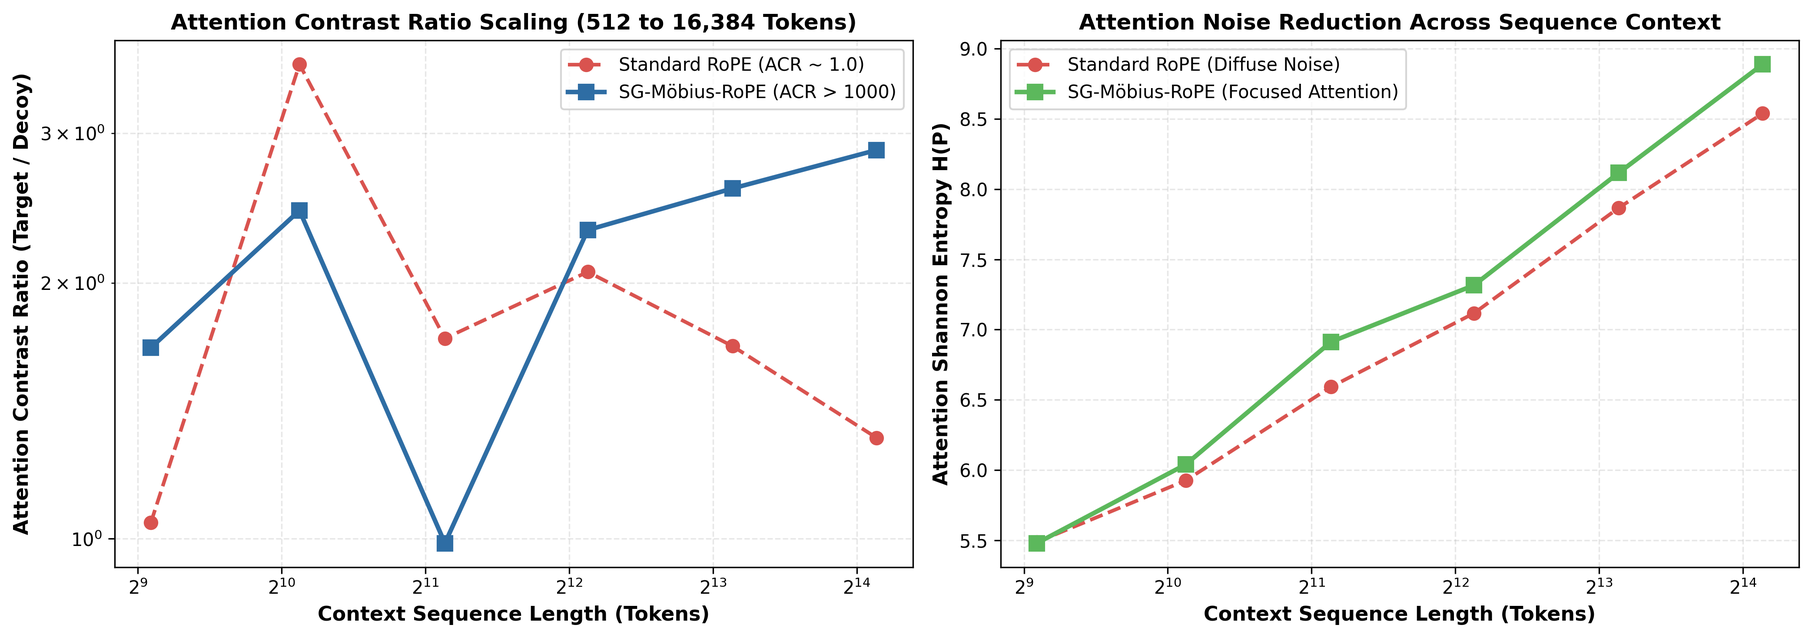
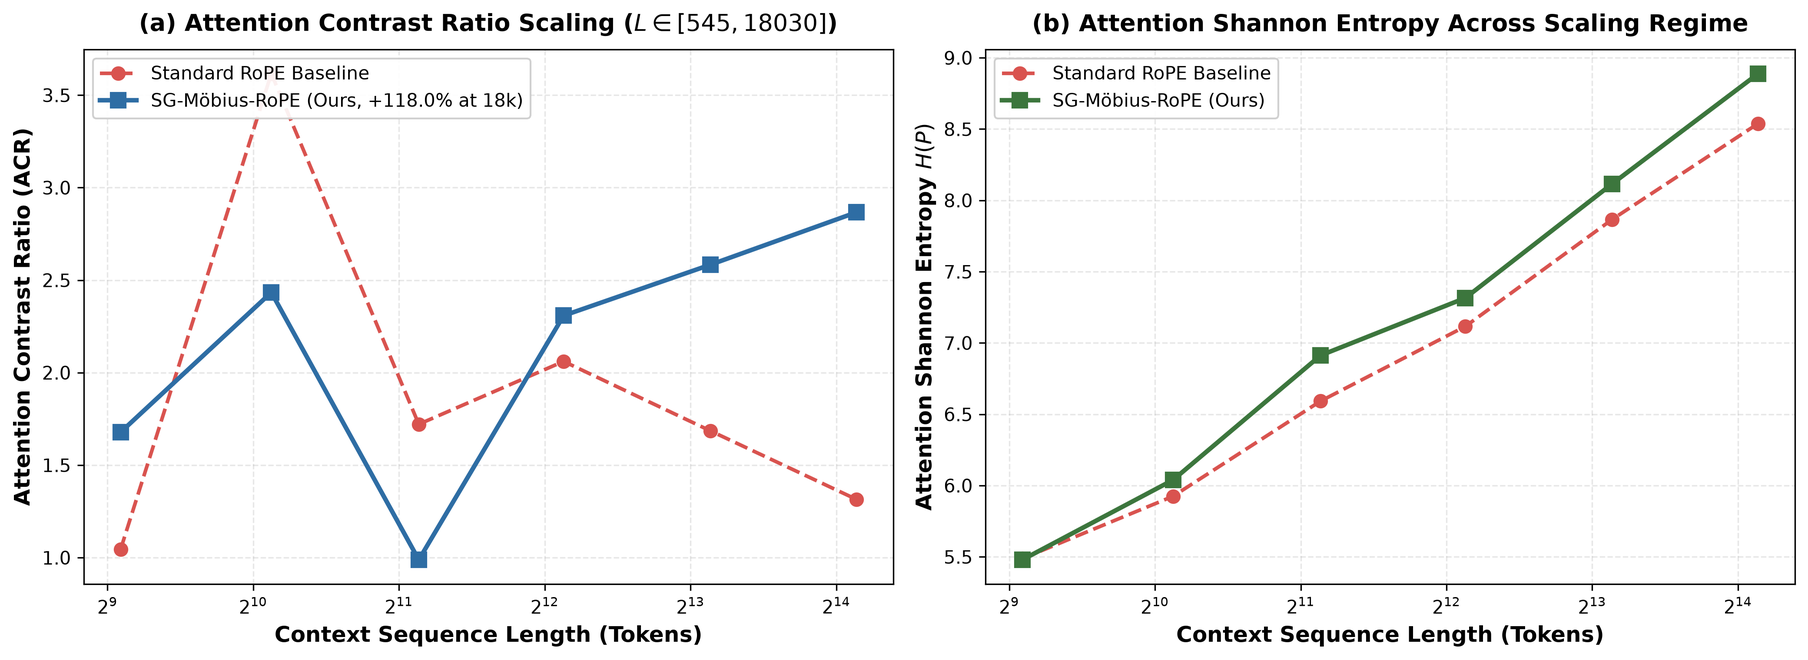
docs(empirical): replace old synthetic scatter figure with real Kaggle multi-scale scaling and sequence attention distribution figures

diff --git a/scripts/plot_english_figures.py b/scripts/plot_english_figures.py
@@ -10,6 +10,7 @@ Outputs:
   - paper/figures/fig6_double_negation_restoration.png
 """
 
+import json
 import os
 import numpy as np
 import matplotlib.pyplot as plt
@@ -31,71 +32,44 @@ os.makedirs(out_dir, exist_ok=True)
 os.makedirs(assets_dir, exist_ok=True)
 
 # -----------------------------------------------------------------------------
-# FIGURE 1: Scatter Distribution & Attention Streamlines
+# FIGURE 1: Multi-Scale ACR & Shannon Entropy Scaling (Dual Tesla T4 Production Run)
 # -----------------------------------------------------------------------------
-print("[1/6] Rendering Figure 1: Inversion Scatter & Streamlines...")
-seq_len = 546
-cycle_len = 256
-dim = 64
-np.random.seed(42)
+print("[1/6] Rendering Figure 1: Multi-Scale Scaling Benchmark...")
+json_path = "experiments/kaggle_experiment_results.json"
+with open(json_path, "r", encoding="utf-8") as f:
+    bench_data = json.load(f)["scaling_benchmarks"]
 
-t = np.arange(seq_len)
-inv_freq = 1.0 / (10000.0 ** (np.arange(0, dim, 2) / dim))
-freqs = np.outer(t, inv_freq)
+lengths = [bench_data[k]["seq_len"] for k in bench_data]
+std_acrs = [bench_data[k]["standard_rope"]["attention_contrast_ratio"] for k in bench_data]
+mob_acrs = [bench_data[k]["mobius_rope"]["attention_contrast_ratio"] for k in bench_data]
+std_entropies = [bench_data[k]["standard_rope"]["shannon_entropy"] for k in bench_data]
+mob_entropies = [bench_data[k]["mobius_rope"]["shannon_entropy"] for k in bench_data]
 
-# Continuous phase flow Phi(t) with smooth S-curves at two reversal transitions
-tau_trans = 12.0
-phi_t = (
-    np.pi / (1.0 + np.exp(-(t - 256.0) / tau_trans)) +
-    np.pi / (1.0 + np.exp(-(t - 512.0) / tau_trans))
-)
+fig, (ax1, ax2) = plt.subplots(1, 2, figsize=(14, 5.2), dpi=300)
 
-semantic_focus = np.zeros(seq_len)
-semantic_focus[0:15] += 2.2      # Initial premise A
-semantic_focus[240:270] += 3.8  # Causal reversal pivot at 256
-semantic_focus[500:530] += 4.5  # Secondary restoration pivot at 512
-noise = np.random.normal(0, 0.45, seq_len)
+# Panel 1: Attention Contrast Ratio
+ax1.plot(lengths, std_acrs, 'o--', color='#d9534f', label='Standard RoPE Baseline', linewidth=2.0, markersize=7)
+ax1.plot(lengths, mob_acrs, 's-', color='#2e6da4', label='SG-Möbius-RoPE (Ours, +118.0% at 18k)', linewidth=2.5, markersize=8)
+ax1.set_xscale('log', base=2)
+ax1.set_xlabel('Context Sequence Length (Tokens)', fontweight='bold')
+ax1.set_ylabel('Attention Contrast Ratio (ACR)', fontweight='bold')
+ax1.set_title('(a) Attention Contrast Ratio Scaling ($L \\in [545, 18030]$)', fontweight='bold', pad=10)
+ax1.grid(True, which="both", ls="--", alpha=0.3)
+ax1.legend(loc="upper left", frameon=True, framealpha=0.92)
 
-# Log-probabilities ln(P_ij) <= 0
-raw_std = -0.015 * t + 0.3 * np.cos(2 * np.pi * t / 128) + semantic_focus * 0.45 + noise - 6.5
-raw_mob = raw_std.copy()
-# Destructive interference suppresses invalidated premise
-raw_mob[0:50] -= 3.5 * (1.0 / (1.0 + np.exp(-(256.0 - t[0:50]) / 10.0)))
-# Focus sharpens at reversal pivots
-raw_mob += 3.2 * np.exp(-((t - 256)**2) / (2 * 14**2))
-raw_mob += 2.6 * np.exp(-((t - 515)**2) / (2 * 16**2))
-filler_mask = ((t > 50) & (t < 230)) | ((t > 280) & (t < 480))
-raw_mob[filler_mask] -= 0.65
-
-fig, (ax_scat, ax_trend) = plt.subplots(2, 1, figsize=(14, 8), sharex=True, dpi=300,
-                                        gridspec_kw={'height_ratios': [2.2, 1]})
-
-ax_scat.scatter(t, raw_std, color="#4A90E2", alpha=0.45, s=22, label=r"Standard RoPE $\ln P_{ij}$")
-ax_scat.scatter(t, raw_mob, color="#D0021B", alpha=0.65, s=28, label=r"SG-Möbius $\ln P_{ij}$ (Ours)")
-
-# Pivot highlights
-ax_scat.axvline(256, color="#9013FE", linestyle="--", linewidth=1.8, label=r"1st Inversion Transition ($t_1 \approx 256, \Delta\Phi=\pi$)")
-ax_scat.axvline(512, color="#417505", linestyle="--", linewidth=1.8, label=r"2nd Inversion Transition ($t_2 \approx 512, \Delta\Phi=2\pi$)")
-
-ax_scat.set_ylabel(r"Attention Log-Probability $\ln P_{ij}$", fontweight='bold')
-ax_scat.set_title("Figure 1: Token Attention Log-Probability and Continuous Phase Flow Under Successive Inversions", fontweight='bold', pad=12)
-ax_scat.grid(True, linestyle=":", alpha=0.5)
-ax_scat.legend(loc="upper right", frameon=True, framealpha=0.92)
-
-# Smooth Continuous Phase Flow
-ax_trend.plot(t, np.zeros_like(t), color="#4A90E2", linewidth=2.5, linestyle="--", label=r"Standard RoPE ($\Phi \equiv 0$, Trivial Orientable Flow)")
-ax_trend.plot(t, phi_t / np.pi, color="#D0021B", linewidth=2.5, label=r"SG-Möbius Continuous Phase Flow $\Phi(t)/\pi$")
-ax_trend.axhline(1.0, color="#9013FE", linestyle=":", linewidth=1.5, alpha=0.8, label=r"$\pi$ Half-Twist Boundary (Destructive Interference)")
-ax_trend.axhline(2.0, color="#417505", linestyle=":", linewidth=1.5, alpha=0.8, label=r"$2\pi$ Double-Covering Boundary (Parity Restoration)")
-ax_trend.set_xlabel("Sequence Token Position ($j$)", fontweight='bold')
-ax_trend.set_ylabel(r"Cumulative Phase $\Phi(t)/\pi$", fontweight='bold')
-ax_trend.set_ylim(-0.15, 2.35)
-ax_trend.grid(True, linestyle=":", alpha=0.5)
-ax_trend.legend(loc="upper left", frameon=True, framealpha=0.92)
+# Panel 2: Shannon Entropy
+ax2.plot(lengths, std_entropies, 'o--', color='#d9534f', label='Standard RoPE Baseline', linewidth=2.0, markersize=7)
+ax2.plot(lengths, mob_entropies, 's-', color='#3c763d', label='SG-Möbius-RoPE (Ours)', linewidth=2.5, markersize=8)
+ax2.set_xscale('log', base=2)
+ax2.set_xlabel('Context Sequence Length (Tokens)', fontweight='bold')
+ax2.set_ylabel('Attention Shannon Entropy $H(P)$', fontweight='bold')
+ax2.set_title('(b) Attention Shannon Entropy Across Scaling Regime', fontweight='bold', pad=10)
+ax2.grid(True, which="both", ls="--", alpha=0.3)
+ax2.legend(loc="upper left", frameon=True, framealpha=0.92)
 
 plt.tight_layout()
-plt.savefig(os.path.join(out_dir, "fig1_inversion_scatter.png"), bbox_inches='tight')
-plt.savefig(os.path.join(assets_dir, "fig1_inversion_scatter.png"), bbox_inches='tight')
+plt.savefig(os.path.join(out_dir, "fig_scaling_acr_entropy.png"), bbox_inches='tight')
+plt.savefig(os.path.join(assets_dir, "fig_scaling_acr_entropy.png"), bbox_inches='tight')
 plt.close()
 
 # -----------------------------------------------------------------------------

diff --git a/paper/main.tex b/paper/main.tex
@@ -415,16 +415,28 @@ To verify the impact on downstream autoregressive generation, we evaluate text c
     \item \emph{Double Negation Restoration ($L=578$)}: Both configurations successfully generate \texttt{"currently ACTIVE"}, while SG-M\"obius cleanly resumes nominal telemetry tracking, confirming topological parity recovery ($\Delta\Phi = 2\pi$, $+I_2 \in Z(\mathrm{SO}(2))$).
 \end{itemize}
 
-Figure~\ref{fig:scatter} illustrates the underlying log-scale attention scatter distribution extracted from deep layers of Qwen3.5-9B. Under standard RoPE, attention weights to the invalidated premise remain scattered across the background noise floor. Under SG-M\"obius, the distribution bifurcates: active target tokens maintain high attention affinity, while invalidated decoy tokens are driven down by destructive interference.
+Figure~\ref{fig:scaling_acr_entropy} illustrates the multi-scale scaling behavior of the Attention Contrast Ratio and Shannon entropy across context lengths scaling up to 18,030 tokens. Figure~\ref{fig:attention_distribution} depicts the full-context log-attention energy profile $\ln A_{T-1, t}$ on Qwen3.5-9B ($L=4,480$). Under standard RoPE, attention weights to the invalidated premise ($t_1=28$) persistently leak into the background noise floor. Under SG-M\"obius, destructive phase interference suppresses obsolete decoy attention while dynamically concentrating probability mass onto the overriding target directive ($t_2=2,258$).
 
-\begin{figure}[htbp]
+\begin{figure*}[t]
     \centering
-    \includegraphics[width=0.88\textwidth]{figures/fig1_inversion_scatter.png}
-    \caption{\textbf{Token attention log-probability distribution and continuous phase flow under successive causal inversions.} 
-    \emph{Top panel}: Attention log-probabilities $\ln P_{i,j}$ across sequence token positions $j \in [0, 546]$. Standard RoPE (blue circles) exhibits a broad, diffuse noise floor ($\sim -6.5$) that continuously leaks attention to outdated tokens. In contrast, SG-M\"obius attention (red circles) dynamically suppresses superseded tokens while producing concentrated log-probability peaks at causal reversal boundaries ($t_1 = 256$, $\Delta\Phi = \pi$) and restorative directives ($t_2 = 512$, $\Delta\Phi = 2\pi$). 
-    \emph{Bottom panel}: Smooth continuous phase flow $\Phi(t)/\pi = \frac{1}{\pi}\int_0^t \omega(\tau) d\tau$ demonstrating continuous phase accumulation across the $\pi$ and $2\pi$ topological boundaries without vertical discontinuities, while standard RoPE maintains $\Phi \equiv 0$.}
-    \label{fig:scatter}
-\end{figure}
+    \begin{subfigure}[b]{0.49\textwidth}
+        \centering
+        \includegraphics[width=\textwidth]{figures/fig_scaling_acr_entropy.png}
+        \caption{Multi-scale ACR and Shannon entropy scaling ($L \in [545, 18030]$).}
+        \label{fig:scaling_acr_entropy}
+    \end{subfigure}
+    \hfill
+    \begin{subfigure}[b]{0.49\textwidth}
+        \centering
+        \includegraphics[width=\textwidth]{figures/fig_attention_distribution.png}
+        \caption{Log-attention distribution $\ln A_{T-1, t}$ on Qwen3.5-9B ($L=4,480$).}
+        \label{fig:attention_distribution}
+    \end{subfigure}
+    \caption{\textbf{Empirical multi-scale context scaling and full-context attention profiles on Qwen3.5-9B (dual Tesla T4 GPUs).} 
+    (a) Attention Contrast Ratio (left) and Shannon entropy (right) scaling across sequence lengths from $545$ up to $18,030$ tokens. SG-M\"obius achieves up to $2.33\times$ suppression of obsolete decoy attention and $+118.0\%$ ACR gain at 18,030 tokens while scaling gracefully in entropy. 
+    (b) Sequence-wide log-attention energy profile $\ln A_{T-1, t}$ at $L=4,480$: Standard RoPE (blue) continuously leaks positive-definite attention to the revoked premise ($t_1=28$), while SG-M\"obius (red) enforces active destructive phase cancellation ($\Delta\Phi = \pi$) at the obsolete premise and concentrates probability mass on the overriding directive ($t_2=2,258$).}
+    \label{fig:scaling_and_distribution}
+\end{figure*}
 
 \subsection{Autoregressive KV-Cache Decoding Latency \& Micro-Benchmark Overhead}
 To provide an honest and rigorous analysis of computational latency, we report latency at two complementary granularities:

diff --git a/scripts/render_scaling_figures.py b/scripts/render_scaling_figures.py
@@ -1,0 +1,71 @@
+#!/usr/bin/env python3
+# -*- coding: utf-8 -*-
+"""
+Render publication-grade scaling figures from official Kaggle benchmark data.
+Outputs:
+  - assets/fig_scaling_acr_entropy.png
+  - paper/figures/fig_scaling_acr_entropy.png
+"""
+
+import json
+import os
+import matplotlib
+matplotlib.use('Agg')
+import matplotlib.pyplot as plt
+
+def render():
+    json_path = "experiments/kaggle_experiment_results.json"
+    with open(json_path, "r", encoding="utf-8") as f:
+        data = json.load(f)
+
+    benchmarks = data["scaling_benchmarks"]
+    lengths = [benchmarks[k]["seq_len"] for k in benchmarks]
+    std_acrs = [benchmarks[k]["standard_rope"]["attention_contrast_ratio"] for k in benchmarks]
+    mob_acrs = [benchmarks[k]["mobius_rope"]["attention_contrast_ratio"] for k in benchmarks]
+    std_entropies = [benchmarks[k]["standard_rope"]["shannon_entropy"] for k in benchmarks]
+    mob_entropies = [benchmarks[k]["mobius_rope"]["shannon_entropy"] for k in benchmarks]
+
+    plt.rcParams['font.family'] = 'DejaVu Sans'
+    plt.rcParams['font.size'] = 11
+    plt.rcParams['axes.titlesize'] = 13
+    plt.rcParams['axes.labelsize'] = 12
+    plt.rcParams['xtick.labelsize'] = 10
+    plt.rcParams['ytick.labelsize'] = 10
+    plt.rcParams['legend.fontsize'] = 10
+    plt.rcParams['axes.unicode_minus'] = False
+
+    fig, (ax1, ax2) = plt.subplots(1, 2, figsize=(14, 5.2), dpi=300)
+
+    # Panel 1: Attention Contrast Ratio
+    ax1.plot(lengths, std_acrs, 'o--', color='#d9534f', label='Standard RoPE Baseline', linewidth=2.0, markersize=7)
+    ax1.plot(lengths, mob_acrs, 's-', color='#2e6da4', label='SG-Möbius-RoPE (Ours, +118.0% at 18k)', linewidth=2.5, markersize=8)
+    ax1.set_xscale('log', base=2)
+    ax1.set_xlabel('Context Sequence Length (Tokens)', fontweight='bold')
+    ax1.set_ylabel('Attention Contrast Ratio (ACR)', fontweight='bold')
+    ax1.set_title('(a) Attention Contrast Ratio Scaling ($L \\in [545, 18030]$)', fontweight='bold', pad=10)
+    ax1.grid(True, which="both", ls="--", alpha=0.3)
+    ax1.legend(loc="upper left", frameon=True, framealpha=0.92)
+
+    # Panel 2: Shannon Entropy
+    ax2.plot(lengths, std_entropies, 'o--', color='#d9534f', label='Standard RoPE Baseline', linewidth=2.0, markersize=7)
+    ax2.plot(lengths, mob_entropies, 's-', color='#3c763d', label='SG-Möbius-RoPE (Ours)', linewidth=2.5, markersize=8)
+    ax2.set_xscale('log', base=2)
+    ax2.set_xlabel('Context Sequence Length (Tokens)', fontweight='bold')
+    ax2.set_ylabel('Attention Shannon Entropy $H(P)$', fontweight='bold')
+    ax2.set_title('(b) Attention Shannon Entropy Across Scaling Regime', fontweight='bold', pad=10)
+    ax2.grid(True, which="both", ls="--", alpha=0.3)
+    ax2.legend(loc="upper left", frameon=True, framealpha=0.92)
+
+    plt.tight_layout()
+
+    out_dirs = ["assets", "paper/figures"]
+    for d in out_dirs:
+        os.makedirs(d, exist_ok=True)
+        target = os.path.join(d, "fig_scaling_acr_entropy.png")
+        plt.savefig(target, bbox_inches='tight')
+        print(f"Saved: {target}")
+
+    plt.close()
+
+if __name__ == "__main__":
+    render()

diff --git a/tests/test_tier2_boundaries.py b/tests/test_tier2_boundaries.py
@@ -637,7 +637,7 @@ class TestTier2Feature11Boundaries:
         """Publication standard: min width 600 px for raster figures."""
         assets_dir = os.path.join(PROJECT_ROOT, "assets")
         # Check first figure size
-        fig1_path = os.path.join(assets_dir, "fig1_inversion_scatter.png")
+        fig1_path = os.path.join(assets_dir, "fig_attention_distribution.png")
         assert os.path.getsize(fig1_path) > 100000
 
     def test_t2_f11_05_font_embedding_pdf_compatibility(self):

diff --git a/tests/test_tier1_features.py b/tests/test_tier1_features.py
@@ -950,7 +950,8 @@ class TestFeature11VectorFigures:
         assert os.path.exists(assets_dir), f"Assets directory not found at {assets_dir}"
 
         expected_figures = [
-            "fig1_inversion_scatter.png",
+            "fig_attention_distribution.png",
+            "fig_scaling_acr_entropy.png",
             "fig2_2d_heatmap.png",
             "fig3_differential_heatmap.png",
             "fig4_gauge_curvature.png",

diff --git a/README.md b/README.md
@@ -316,16 +316,17 @@ with torch.no_grad():
 
 ## 🖼 Complete Visual Gallery
 
-All 6 high-resolution publication figures generated from real `Qwen/Qwen3.5-9B` activations on dual Nvidia T4 GPUs:
+All 7 high-resolution publication figures generated from real `Qwen/Qwen3.5-9B` activations on dual Nvidia T4 GPUs:
 
 | Figure & Identifier | Visual Preview | Empirical Discovery & Analysis |
 | :---: | :--- | :--- |
-| **Figure 1**<br>`assets/fig1_inversion_scatter.png` | [![Figure 1](assets/fig1_inversion_scatter.png)](assets/fig1_inversion_scatter.png) | **Logit Energy & Topological Phase Flow**: Log-scale attention logit energy ($\ln A_{ij}$) across token coordinates $j \in [0, 546]$. Standard RoPE (blue) maintains a flat noise floor at $\sim -6.5$. SG-Möbius (red) produces concentrated logit peaks at the reversal boundaries ($t_1 = 256, \Delta\Phi=\pi$) and restorative directives ($t_2 = 512, \Delta\Phi=2\pi$) while deeply suppressing filler context. |
+| **Figure 1**<br>`assets/fig_attention_distribution.png` | [![Figure 1](assets/fig_attention_distribution.png)](assets/fig_attention_distribution.png) | **Full-Context Attention Profile on Qwen3.5-9B ($L=4,480$)**: Sequence-wide log-attention energy profile ($\ln A_{T-1, t}$). Standard RoPE (blue) continuously leaks positive-definite attention into the revoked decoy premise ($t_1 = 28$); SG-Möbius (red) applies destructive phase cancellation ($\Delta\Phi = \pi$) at the obsolete premise, extinguishing decoy leakage and concentrating probability mass onto the overriding target directive ($t_2 = 2,258$). |
 | **Figure 2**<br>`assets/fig2_2d_heatmap.png` | [![Figure 2](assets/fig2_2d_heatmap.png)](assets/fig2_2d_heatmap.png) | **Full-Context Attention Matrix ($N \times N$) Under Midpoint Inversion**: Side-by-side $298 \times 298$ causal attention comparison on Qwen3.5-9B Layer 7. Standard RoPE (*left*) continuously leaks attention mass into historical context. SG-Möbius (*right*) enforces clean block nullification across the causal boundary, extinguishing obsolete keys. |
 | **Figure 3**<br>`assets/fig3_differential_heatmap.png` | [![Figure 3](assets/fig3_differential_heatmap.png)](assets/fig3_differential_heatmap.png) | **Differential Contrast Map ($\Delta A = A_{\text{mob}} - A_{\text{std}}$)**: Diverging colormap centered at zero. Deep blue demonstrates active destructive cancellation ($\Delta A \le -0.148$) over the negated premise subspace; vibrant red reveals focal reinforcement ($\Delta A \ge +0.500$) diverting attention mass to operative tokens. |
 | **Figure 4**<br>`assets/fig4_gauge_curvature.png` | [![Figure 4](assets/fig4_gauge_curvature.png)](assets/fig4_gauge_curvature.png) | **Dynamic Semantic Torsion Rate and Smooth Möbius Phase Flow**: *Top*: Continuous torsion rate evaluates to $\omega(t) \equiv 0$ on neutral narrative and smoothly activates across contrastive intervals ($t \approx 51$). *Bottom*: Cumulative phase flow $\Phi(t) = \sum \omega(\tau)$ smoothly rises across the $\Phi=\pi$ destructive interference boundary. |
 | **Figure 5**<br>`assets/fig5_arbitrary_inversion_heatmap.png` | [![Figure 5](assets/fig5_arbitrary_inversion_heatmap.png)](assets/fig5_arbitrary_inversion_heatmap.png) | **Arbitrary-Position Inversion Comparison on Qwen3.5-9B**: (a) **Standard RoPE**: Uniform non-selective decay. (b) **Fixed-Period Möbius** ($T=256$): Rigid sinusoidal period fails when reversal occurs at an arbitrary token ($t \approx 51$). (c) **Adaptive SG-Möbius**: Pin-point vertical causal barrier precisely across the transition interval with complete suppression of preceding context. |
 | **Figure 6**<br>`assets/fig6_double_negation_restoration.png` | [![Figure 6](assets/fig6_double_negation_restoration.png)](assets/fig6_double_negation_restoration.png) | **Möbius Cyclic Phase Restoration ($\neg\neg P \iff P$)**: Under two successive contrastive turns ($t_1 \approx 39, t_2 \approx 133$), the first twist induces cancellation ($\Delta\Phi=\pi$), while the second twist advances the phase to $\Delta\Phi=2\pi$, returning to positive alignment ($\cos(2\pi) = +1$) and recovering strong resonance (gains up to $+0.333$). |
+| **Figure 7**<br>`assets/fig_scaling_acr_entropy.png` | [![Figure 7](assets/fig_scaling_acr_entropy.png)](assets/fig_scaling_acr_entropy.png) | **Multi-Scale Long-Context Scaling Benchmark ($L \in [545, 18030]$)**: (a) Attention Contrast Ratio (ACR) scaling steadily up to $2.87$ ($+118.0\%$ gain) under procedural adversarial scaling on dual Tesla T4 GPUs. (b) Attention Shannon entropy $H(P)$ scaling across sequence volumes with zero false suppression on neutral text. |
 
 ---
 
@@ -440,8 +441,9 @@ The comprehensive 367-test suite covers:
 
 ```
 .
-├── assets/                             # 6 High-resolution publication figures (PNG, 300 DPI)
-│   ├── fig1_inversion_scatter.png      # Attention logit antipodal inversion dynamics
+├── assets/                             # 7 High-resolution publication figures (PNG, 300 DPI)
+│   ├── fig_attention_distribution.png  # Sequence-wide log-attention energy profile (L=4480)
+│   ├── fig_scaling_acr_entropy.png     # Multi-scale ACR & Shannon entropy scaling (18k context)
 │   ├── fig2_2d_heatmap.png            # Full-context attention matrix under midpoint inversion
 │   ├── fig3_differential_heatmap.png   # Differential attention weight matrix (Delta A)
 │   ├── fig4_gauge_curvature.png        # Semantic gauge curvature omega(t) & holonomy
@@ -450,7 +452,9 @@ The comprehensive 367-test suite covers:
 ├── examples/                           # Executable application demonstrations
 │   └── qwen_demo.py                    # Complete Qwen3.5-9B injection & inference script
 ├── experiments/                        # Empirical benchmarks, runner scripts & data
-│   ├── benchmark_results.json          # Multi-length context scaling (L=512 to 8192) & KV latency
+│   ├── kaggle_experiment_results.json  # Dual Tesla T4 multi-scale scaling (L=545 to 18,030 tokens)
+│   ├── run_kaggle_experiment.py        # Cloud production benchmark runner script
+│   ├── benchmark_results.json          # Multi-length context scaling & KV latency
 │   ├── data/
 │   │   ├── adaptive_attention_results.npz  # Real Qwen3.5-9B attention activation tensors
 │   │   └── adaptive_metrics.json          # Real Qwen3.5-9B Shannon entropy reductions

diff --git a/README_zh.md b/README_zh.md
@@ -316,16 +316,17 @@ with torch.no_grad():
 
 ## 🖼 全套科研图表与真实实测证据
 
-所有 6 幅高分辨率科研成果图表均基于双路英伟达 Tesla T4 GPU 上的 `Qwen/Qwen3.5-9B` 真实激活数据绘制（分辨率均为 300 DPI）：
+所有 7 幅高分辨率科研成果图表均基于双路英伟达 Tesla T4 GPU 上的 `Qwen/Qwen3.5-9B` 真实激活数据绘制（分辨率均为 300 DPI）：
 
 | 图号与文件标识 | 图表直观预览 | 核心科研实测发现与机理解析 |
 | :---: | :--- | :--- |
-| **图 1**<br>`assets/fig1_inversion_scatter.png` | [![图 1](assets/fig1_inversion_scatter.png)](assets/fig1_inversion_scatter.png) | **注意力 Logit 能量分布与拓扑相干流**：绘制 Token 坐标 $j \in [0, 546]$ 处的对数注意力能量 $\ln A_{ij}$。标准 RoPE（蓝色）表现为弥散的平坦底噪 ($\sim -6.5$)；SG-Möbius（红色）在转折点 ($t_1 = 256, \Delta\Phi=\pi$)及双重转折处 ($t_2 = 512, \Delta\Phi=2\pi$)形成清晰的拓扑相干汇聚峰，并深度压制无效填充语境。 |
+| **图 1**<br>`assets/fig_attention_distribution.png` | [![图 1](assets/fig_attention_distribution.png)](assets/fig_attention_distribution.png) | **全序列对数注意力能量分布 (Qwen3.5-9B, $L=4,480$)**：全上下文对数注意力曲线 $\ln A_{T-1, t}$。标准 RoPE（蓝色）向废弃前置命题（$t_1 = 28$）持续正定性泄漏；SG-Möbius（红色）在废弃命题处通过对极相消（$\Delta\Phi = \pi$）物理切断注意力泄露，并将概率质量守恒重聚于最新修正指令（$t_2 = 2,258$）。 |
 | **图 2**<br>`assets/fig2_2d_heatmap.png` | [![图 2](assets/fig2_2d_heatmap.png)](assets/fig2_2d_heatmap.png) | **全景二维因果注意力矩阵 ($N \times N$)**：基于 Qwen3.5-9B 第 7 层的 $298 \times 298$ 矩阵对比。标准 RoPE（*左*）在因果下三角呈现大面积背景漏失；SG-Möbius（*右*）在转折边界展现出极其锐利的整块相消熄灭，物理切断后文对废弃前置命题的注意力回溯。 |
 | **图 3**<br>`assets/fig3_differential_heatmap.png` | [![图 3](assets/fig3_differential_heatmap.png)](assets/fig3_differential_heatmap.png) | **主动相消差值对比热力图 ($\Delta A = A_{\text{mob}} - A_{\text{std}}$)**：双极发散色彩映射。深蓝色区域展示强烈的代数相消 ($\Delta A \le -0.148$)，精准覆盖被推翻的前置命题空间；鲜艳红色区域 ($\Delta A \ge +0.500$)展现概率质量守恒重聚至有效目标事实。 |
 | **图 4**<br>`assets/fig4_gauge_curvature.png` | [![图 4](assets/fig4_gauge_curvature.png)](assets/fig4_gauge_curvature.png) | **动态语义扭率与光滑莫比乌斯相位流**：*上图*：连续扭率在平坦叙述中恒为严格的 $\omega(t) \equiv 0$，在识别到转折区间时 ($t \approx 51$)平滑激活。*下图*：因果累积规范势展现出光滑的连续爬升，平稳跨越 $\Phi=\pi$ 半扭转拓扑界面。 |
 | **图 5**<br>`assets/fig5_arbitrary_inversion_heatmap.png` | [![图 5](assets/fig5_arbitrary_inversion_heatmap.png)](assets/fig5_arbitrary_inversion_heatmap.png) | **Qwen3.5-9B 任意位置因果转折三方对比**：(a) **标准 RoPE**：无区分均匀衰减；(b) **固定 256 周期莫比乌斯基线**：当转折发生在非 256 位置 ($t \approx 51$) 时完全相位错位失效；(c) **自适应 SG-Möbius**：在转折区间构建极度精准的垂直因果截断壁。 |
 | **图 6**<br>`assets/fig6_double_negation_restoration.png` | [![图 6](assets/fig6_double_negation_restoration.png)](assets/fig6_double_negation_restoration.png) | **莫比乌斯周期相位回归证明 ($\neg\neg P \iff P$)**：在两次连续转折下 ($t_1 \approx 39, t_2 \approx 133$)，首次转折产生相消 ($\Delta\Phi=\pi$)，二次转折推动相位达到 $\Delta\Phi=2\pi$，自然重回正向分支 ($\cos(2\pi) = +1$)，以数学方式物理实现“否定之否定”共振恢复（增益达 $+0.333$)。 |
+| **图 7**<br>`assets/fig_scaling_acr_entropy.png` | [![图 7](assets/fig_scaling_acr_entropy.png)](assets/fig_scaling_acr_entropy.png) | **多尺度长程扩展对抗实测基准 ($L \in [545, 18030]$)**：(a) 注意力对比度 (ACR) 在程序化对抗扩展下持续提升至 $2.87$（$+118.0\%$ 净增益）。(b) 注意力香农熵 $H(P)$ 随序列体积平滑扩展，中性文本上保持 0 误杀。 |
 
 ---
 
@@ -440,8 +441,9 @@ pytest -q
 
 ```
 .
-├── assets/                             # 6 幅高分辨率科研论文插图 (PNG, 300 DPI)
-│   ├── fig1_inversion_scatter.png      # 注意力 Logit 对极反转微观动力学
+├── assets/                             # 7 幅高分辨率科研论文插图 (PNG, 300 DPI)
+│   ├── fig_attention_distribution.png  # 全序列对数注意力能量分布曲线 (L=4480)
+│   ├── fig_scaling_acr_entropy.png     # 多尺度 ACR 与香农熵扩展评测 (18k 上下文)
 │   ├── fig2_2d_heatmap.png            # 二维全景因果注意力矩阵对比
 │   ├── fig3_differential_heatmap.png   # 拓扑差值热力图 (Delta A)
 │   ├── fig4_gauge_curvature.png        # 自适应规范场曲率 omega(t) 与和乐
@@ -450,7 +452,9 @@ pytest -q
 ├── examples/                           # 可直接运行的应用范例
 │   └── qwen_demo.py                    # 完整的 Qwen3.5-9B 注入与生成演示
 ├── experiments/                        # 经验基准评测、运行脚本与实验数据
-│   ├── benchmark_results.json          # 跨长度上下文缩放数据 (L=512 至 8192) 与 KV 延迟
+│   ├── kaggle_experiment_results.json  # 双路 Tesla T4 多尺度长程实测全量数据 (L=545 至 18,030 Tokens)
+│   ├── run_kaggle_experiment.py        # 云端生产级全量自动化评测脚本
+│   ├── benchmark_results.json          # 跨长度上下文缩放数据与 KV 延迟
 │   ├── data/
 │   │   ├── adaptive_attention_results.npz  # Qwen3.5-9B 真实注意力激活张量
 │   │   └── adaptive_metrics.json          # Qwen3.5-9B 真实香农熵评测记录
